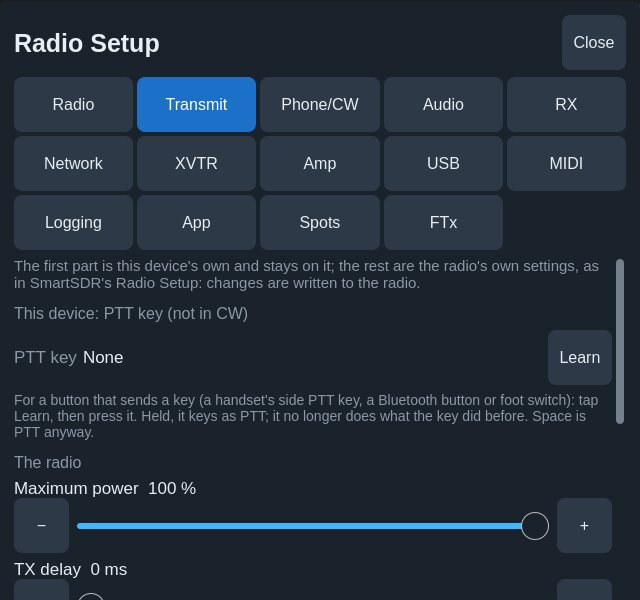
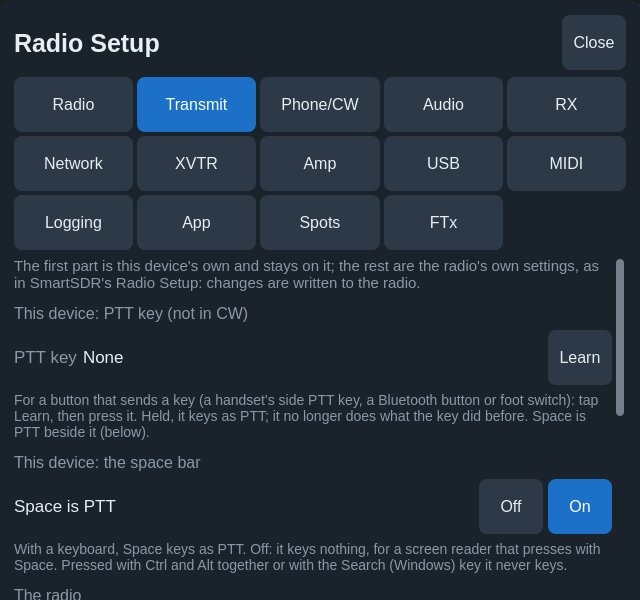
mobile: build 221 with Android beta 122: the notes, the manual, the privacy text, the roadmap, two pictures and the preview marker
iOS build 221 carries 209, 213, 215 and 216; Android beta 122 is run 159, the
fourth preview as the user tried it, and goes out with it through
mobile-release.yml: the marker stays for this one push so that the two are
released together and Android's is the tried build.

- TestFlight notes for 221 (3997 characters), build 216's to Recent.
- Manual: the meters' Fan, Space is PTT and the keys that never key, the
  microphone open the whole time on an iPhone, iPad and Mac, and receive after
  a call in the background among the problems.
- Privacy text: the microphone on iOS.
- Pictures: the meter chooser (taller: the transmit choices show again under
  the new Fan row) and Setup > Transmit.
- Roadmap: the build's paragraph.

Claude-Session: https://claude.ai/code/session_01KANojkzU64KoozGDbNDzRK

Changed region(s): [[0.0, 0.69, 0.9688, 1.0], [0.875, 0.96, 0.9688, 1.0]]

diff --git a/docs/mobile/MANUAL.md b/docs/mobile/MANUAL.md
@@ -1109,9 +1109,14 @@ An analog meter keeps its size, as a wider face would also grow taller.
 
 ![The amplifier's readings on the meters while transmitting](manual/meter-amp.jpg)
 
-Receive offers S, Mic, PA temperature and supply voltage; transmit adds
+Receive offers S, Mic, PA temperature, supply voltage and Fan; transmit adds
 Power, SWR, ALC and Compression, which the radio reads only while
 transmitting, and leaves S out (it has nothing to read on the air).
+**Fan** is the radio's main fan speed in RPM, offered where the radio
+reports it (since build 221, on Android and Linux from the next beta;
+thanks John N1JM). Its scale goes to 2000 RPM and grows when the fan runs
+faster: to 4000, then to the radio's own top for the reading (8192 RPM on
+a FLEX-6600M, whose fan idles near 800).
 **Power** has the radio's scale: 0-120 W red from 100 W, 0-600 W red from
 500 W on an Aurora or a radio over 100 W, a QRP radio's own power times
 1.2. With a Power Genius XL in OPERATE it shows the amplifier's output on
@@ -1392,7 +1397,10 @@ the value types it); SPLIT again (or XIT off there) ends it.
   not key (the radio refuses voice there); switch to USB / LSB, or use the
   FTx tab for FT8 / FT4 and the FreeDV tab for RADE. When the radio refuses transmit, its own reason
   is shown.
-  The microphone is open only while transmitting, and the speaker goes
+  On Android and Linux the microphone is open only while transmitting
+  (and for the Mic meter, VOX and a Bluetooth headset, below); on an
+  iPhone, an iPad and a Mac it is open the whole time the app is connected
+  and in front (the next point). The speaker goes
   quiet from the press until the release, so the band noise still playing
   as the radio keys does not reach a phone's microphone and go out at the
   start of the transmission (with **MON** on, the speaker comes back a
@@ -1400,6 +1408,20 @@ the value types it); SPLIT again (or XIT off there) ends it.
   → TX → PTT) makes it a switch: tap to transmit, tap again to stop (TX ■
   while it is on); as a safety it stops by itself after 3 minutes. Space on
   a keyboard works the same way.
+- **The microphone, open the whole time (iPhone, iPad and Mac; since build
+  221)** — once you have allowed the microphone, the app keeps it open the
+  whole time it is connected, with this device's microphone as the radio's
+  input, and in front. The Mic meter then moves in receive too, with the
+  TX tab closed, so the level, the gate and the compressor can be set
+  without transmitting, as with the other Flex programs. The radio
+  transmits only at PTT (or by its VOX). iOS shows its orange microphone
+  mark for as long, and the microphone's audio goes to your radio all the
+  time (some 50 MB an hour over mobile data). In the background the
+  microphone is closed (with VOX on it stays open, as before). The app does
+  not ask for the microphone at the first connect because of this: it asks
+  at the first PTT or when the TX tab is first opened, as before, and a
+  microphone you refused stays shut. On Android and Linux this comes in a
+  later beta; there the microphone opens as before.
 - **PTT's place on a phone** (since build 215 / Android beta 120; asked by
   Antonio Ferrulli IZ7LDG, for a big phone held in the left hand) — Setup ›
   App › **PTT**: *Left*, *Wide* or *Right*. *Right* is where PTT has always
@@ -1603,7 +1625,9 @@ or a 4O3A Power Genius XL or Tuner Genius XL connected to the radio, an
   microphone. Choose Mic for the left meter and set it so speech peaks
   near −10 dB: while the TX tab is open the microphone is open and the
   meter moves in receive too (nothing is transmitted before PTT; with VOX
-  on, VOX holds the microphone instead). Phone microphones often need +10
+  on, VOX holds the microphone instead; on an iPhone, an iPad and a Mac
+  the microphone is open the whole time since build 221, so the meter
+  moves with the tab closed too). Phone microphones often need +10
   to +20 dB; a limiter at
   −1 dBFS keeps the loudest peaks from clipping. With a microphone on the
   radio it is the radio's mic level (0–100), as SmartSDR's MIC.
@@ -3176,6 +3200,7 @@ Notices and refusals pop up in the middle of the display; tap one, or wait
 | *This slice is muted on this band …* | The radio remembers the band's slice muted | Tap the speaker on the info panel |
 | *The radio's CW pitch was 0 Hz …* | The radio had a CW pitch of 0 stored for this app, so CW at zero beat was silent | Nothing: the app set 600 Hz; change it under Controls → CW → Pitch |
 | *Microphone access is off …* | The device does not let the app use the microphone | Allow it in the device's settings (Settings › OksaSDR › Microphone) |
+| Receive stays silent after a call, an alarm or another app's sound, with the app in the background (iPhone, iPad) | iOS does not let the app take its microphone's audio session back in the background | Since build 221 the app takes a playing-only session there instead, so receive should come back by itself when the other sound ends and nothing else plays (the microphone's session returns when the app is in front); if it stays silent, open the app, and send the log |
 | *Host unreachable* or *timed out* to a home-network address (iPhone, iPad, Mac) | iOS keeps the app off the home network until it may use it (Local Network permission); the error then names where | Settings › Privacy & Security › Local Network › OksaSDR on; also check the address and that this device is on the radio's network or VPN |
 | *No free slice for the transmit side of a split* | All the radio's slices are in use | Close a slice (press and hold its chip, or Stations…) |
 | *Set the radio's callsign first* / *The DX cluster needs a callsign* | FT8 / FT4, or the DX cluster, needs a callsign | Setup → Radio → Callsign (the DX cluster can also take one under Spots) |
@@ -3250,7 +3275,7 @@ Bluetooth keyboard on a phone, or Android's DeX):
 | ← / → | Tune one step |
 | ↑ / ↓ | Tune ten steps |
 | Shift + arrows | Ten times as far |
-| Space | PTT (hold) |
+| Space | PTT (hold), unless *Space is PTT* is off (below); never with Control and Option together or with Command |
 | + / − | Zoom |
 | F | Frequency entry |
 | T | TUNE on / off (the TX tab's Tune power) |
@@ -3272,9 +3297,22 @@ then press the button: its key shows beside *PTT key* (Esc cancels).
 Held, it keys PTT as Space does, and lets go when released; with PTT *Tap
 on / off* a press keys and the next unkeys. The key no longer does what it
 did before (a rugged phone's PTT key that sends F2 no longer plays voice
-macro 2), and Space stays PTT too. **Clear** forgets it. PTT is let go
+macro 2), and Space stays PTT beside it (unless switched off, next). **Clear** forgets it. PTT is let go
 when the app leaves the front, and the key keys nothing while an own
 layout is edited. The transmit lock holds it as it holds PTT.
+
+**Space is PTT** (Setup › Transmit, *This device: the space bar*; since
+build 221, on Android and Linux from the next beta; thanks Justin Mann
+AI5OS): with a keyboard Space keys as PTT, and that is how it stands at
+first. Switched **Off**, Space keys nothing: for a screen reader that
+presses the control under its cursor with Space, where the radio could key
+at a press meant for a button. PTT is then the button on the screen or a
+learned PTT key. Either way, Space pressed with Control and Option together
+(VoiceOver's own keys for a press) or with Command never keys; on Android
+and a PC keyboard the same goes for Ctrl and Alt together and for the
+Search (Windows) key. Control or Option alone, which can be the CW paddle
+keys, hold nothing back. With VoiceOver's key set to Caps Lock, or its keys
+locked, a plain Space reaches the app: switch *Space is PTT* off then.
 
 **A Ulanzi dial on a Mac** (thanks Christoph Steinert DM5HF): with Ulanzi
 Studio running on the Mac, give the knob and keys key combinations there,

diff --git a/mobile/ROADMAP.md b/mobile/ROADMAP.md
@@ -5,6 +5,8 @@ queued, waiting on someone, or still to verify follows.
 
 ## Next build
 
+Build 221 with Android beta 122, the user's PuJu for every platform on 2026-11-26 at about 16:50, after their check of the fourth Android preview ("Kuulokkeen katkaisusta kaiuttimeen kesti melko pitkään mutta tuli ... 2. pieni katko 3. 4 toimii") and the list of what waited for an iOS build: "Otetaan iosille nuo 209, 213, 215, 216 ja 210 osalta odotetaan Justinin palautetta eli nyt PuJu jossa kaikki alustat". iOS build 221: **209** (Space as PTT can be switched off, and never keys with a screen reader's keys), **213** (the radio's fan speed on the meters), **215** (receive back in the background after an interruption) and **216** (the microphone open the whole time the app is connected and in front, on iOS). Android beta 122 is the fourth preview's build as the user tried it (run 159: **214**, **218**, **221**, **203**), not a new one: 209 and 213 are shared code and reach Android and Linux with the next beta, through a preview on the phone, and 216 there likewise (said to the user at once; no objection). Linux keeps build L39. Not run on a device: 215, and the iOS halves of 209 and 216; the notes say "should". 210 waits for Justin's word.
+
 Android beta 122, prepared and pushed on 2026-11-26 as a PREVIEW for the user's own phone (the marker mobile/PREVIEW is in the tree; the user at about 08:20, after their own try of beta 121 that morning and my proposal to mend 214 and push it as a preview: "push"). Android only: **214**, the headset keeper after its first run on a device (a refused route is a try that failed, a headset off Android's list is looked for, a phone call's route is left alone, no renewing at the front with the link up). The code is under Q_OS_ANDROID, so no iOS build is made and build 216 stays the newest on TestFlight; the Linux AppImage is unchanged too. Compiled for arm64 Android with the release flags and read once more against the Java side; it cannot run here, which is what the preview is for. To everyone only on the user's word after the try (the notes for beta 122 are written). *The second preview, the same day:* the user tried the first one at 10:05 to 10:16 (the results are under 214), said of the delay at leaving the front that it is the fault, and to my question whether its cure goes into this build: "toinen esiversio". So beta 122 also carries **218** (the headset's link kept when the microphone closes: the route asked through an AudioManager of the app's own, the app's call mode taken again before the microphone closes, the quick way back, receive not opened twice). Android only as before; not run on a device, which is what this preview is for. *The third preview, the same day:* the second showed 218 working on the phone (no break when the app left the front, three times) and a new fault: the app stood still for 15 s when the headset was switched off with its media audio on (**221**), besides **219** (Speaker to Bluetooth media stays on the phone's speaker). The user to my proposal of a third preview with 221, 219 and 203's stacks at 8 s: "Tee esiversio". So beta 122 also carries **221** (the calls to Android's audio service waited for only a moment), **219** (Bluetooth media on the headset's music device by its id, and a log line naming where Android plays) and **203** (stacks at 8 s). Not run on a device. *The fourth preview, the same day:* the third showed **221** working on the phone (the headset switched off three times with media audio on: Android's audio service out for 15.1, 4.4 and 13.4 s, the app going on and the radio's connection kept each time) and 219's attempt failing: Qt shows the app one Bluetooth device of a headset only, so the music device could not be opened, and the attempt lost the sound after a headset's power cycle with Bluetooth media chosen. The fourth is the third without that attempt: **214**, **218**, **221** and **203**. 219 and 220 get their own build.
 
 Build 216 / Android beta 121, released 2026-11-26 to everyone (PuJu, the user going to bed on 2026-11-25 at about 23:00, after the evening's summary of the prepared preview, which named what had not run on a device: "Tehdään PuJu sillä lähden nyt nukkumaan"). Its contents were picked by the user that evening while testing build 215 on the OnePlus Open, a Jabra Evolve2 65 and the iPad: **204** ("204 noin ok", their own drawing), **192** a ("192 a muutetaan"; the program name only with the Apple change), **201** (parts 1, 2 and 4: "pitäisi toimia tuossa kuuloketilassa. Niin kuin handsfree-sarjanakin toimii kuulokkeet"), and **181** b, **181** c, **192** the demo radio's name and **207** ("Otetaan kaikki nuo ehdottomasti 4 tähän buildiin mukaan"); **203**'s stall-watch stacks on Android are in it as built. One commit an item. Tested on the FLEX in the render tool and on the desktop as each item says. 201 and 203 are Android code that cannot run here and went out without a run on a device; so before the push both were made careful (201: only a link the app has seen up is mended, five tries, the round after the background only for a headset without media audio; 203: the stacks only when the app has stood 16 s), every Java call of the build was checked by name and signature against the Java side (a wrong one fails only on a device), and both compile for arm64 Android with the release toolchain. Found in that last reading and written into the release: the microphone held open for a headset streams to the radio all the time, as with VOX (up to some 50 MB an hour over mobile data), which the privacy text's microphone section, the manual and the Android notes now say; holding the link without the stream is **208**. For the release: the manual's picture of PTT's places with the row of Wide on its side; the Connect page's picture with the demo radio's new name, from now on rendered from settings of its own (each saved radio by its model, the SmartLink section as its sign-in form), so that the operator's own radio nickname is not in a public picture (it was in the picture published until now; older versions stay in the history).

diff --git a/mobile/PRIVACY.md b/mobile/PRIVACY.md
@@ -151,7 +151,14 @@ on the device.
 ## Microphone
 
 The microphone is used only to transmit through your radio (voice, RADE
-digital voice) and to record voice keyer messages you choose to record, and
+digital voice) and to record voice keyer messages you choose to record. On
+an iPhone, an iPad and a Mac it is open the whole time the app is connected
+to a radio, with this device's microphone as the radio's input, and in
+front, once you have allowed it (since build 221): the audio streams to
+your radio, which transmits only at PTT or by its VOX, so that the
+microphone's level and audio chain can be set without transmitting; iOS
+shows its microphone indicator for as long, and in the background the
+microphone is closed unless the radio's VOX is on. On Android and Linux
 it is open only while you hold PTT or record, while the TX or eSSB tab is
 shown (for its microphone meter; nothing is transmitted), while you have
 the radio's VOX on with this device's microphone (the audio then streams to
@@ -249,4 +256,4 @@ children.
 
 Questions about this policy: oh6oksa@gmail.com
 
-Last updated: 2026-11-26 (Android: the microphone held open for a Bluetooth headset while the app is in front; earlier: Forgot password? on the SmartLink sign-in; the radio used last, kept for At start › Last radio; Android: GitHub for new versions; the microphone with VOX and for the TX tab's meter, speech recognition on the device everywhere, SmartLink accounts and favourites, Bluetooth MIDI search on Android; the Elecraft KPA1500, Bluetooth MIDI controllers, App setups)
+Last updated: 2026-11-26 (iPhone, iPad and Mac: the microphone open the whole time the app is connected and in front; Android: the microphone held open for a Bluetooth headset while the app is in front; earlier: Forgot password? on the SmartLink sign-in; the radio used last, kept for At start › Last radio; Android: GitHub for new versions; the microphone with VOX and for the TX tab's meter, speech recognition on the device everywhere, SmartLink accounts and favourites, Bluetooth MIDI search on Android; the Elecraft KPA1500, Bluetooth MIDI controllers, App setups)
